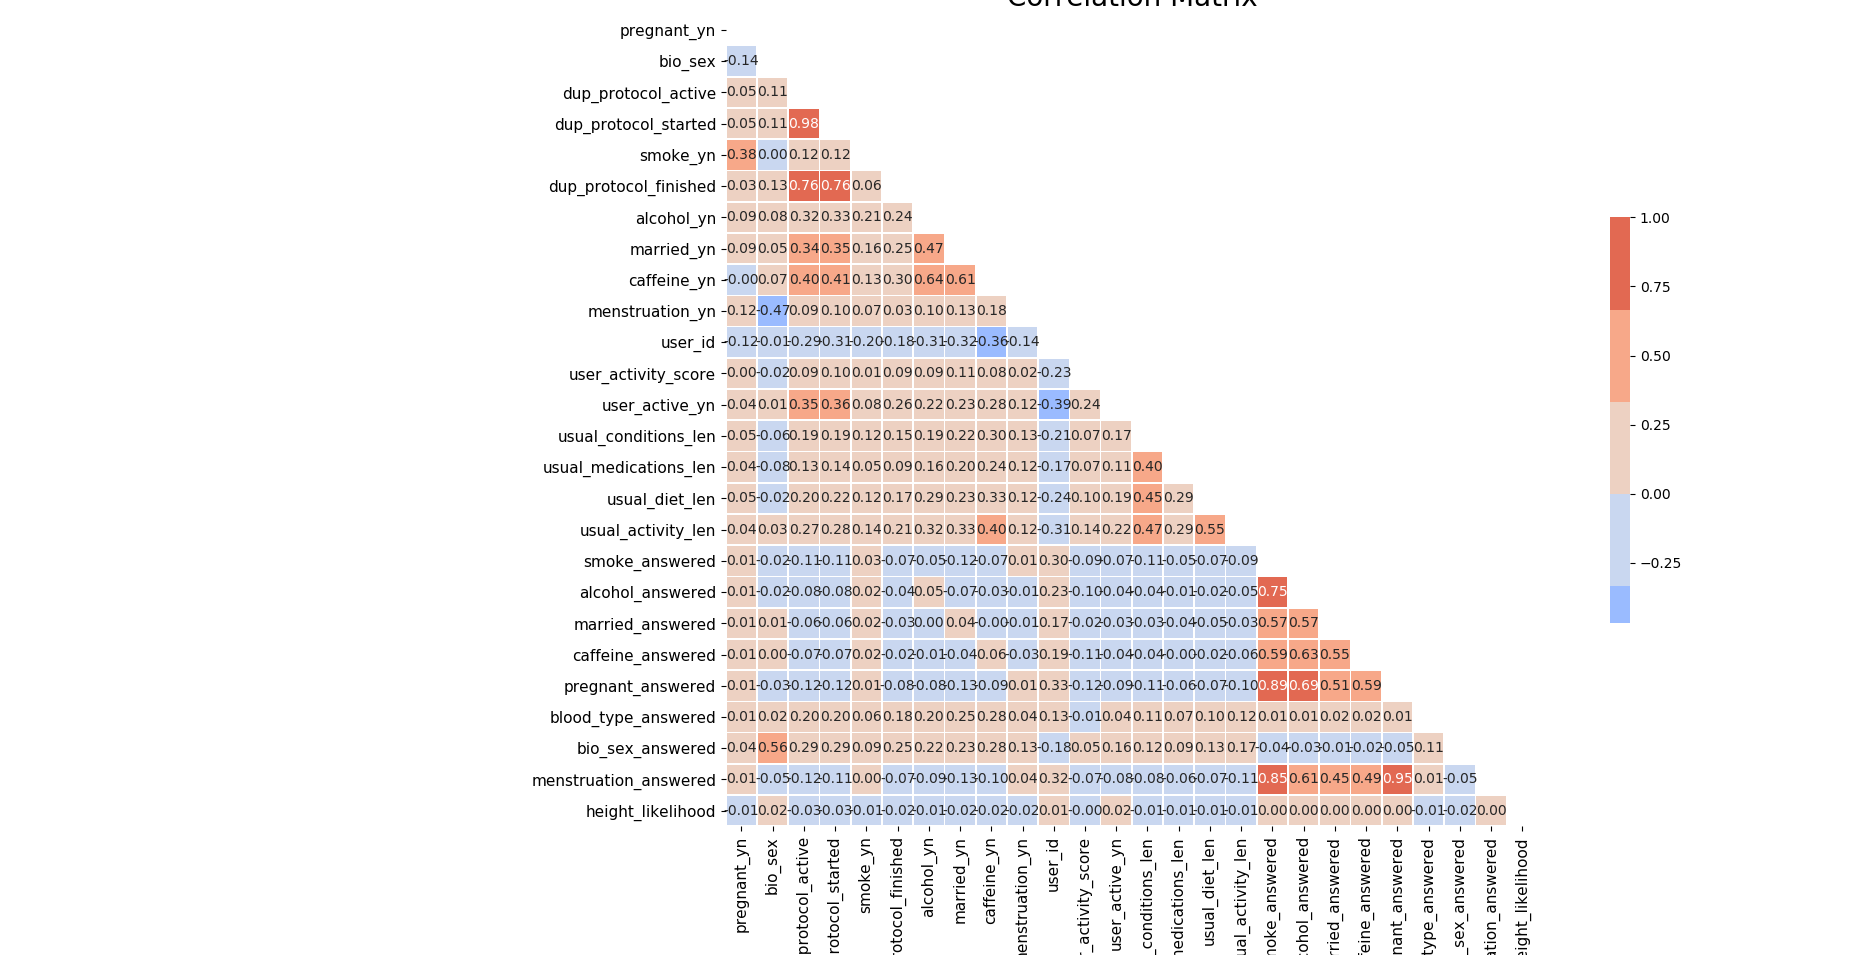
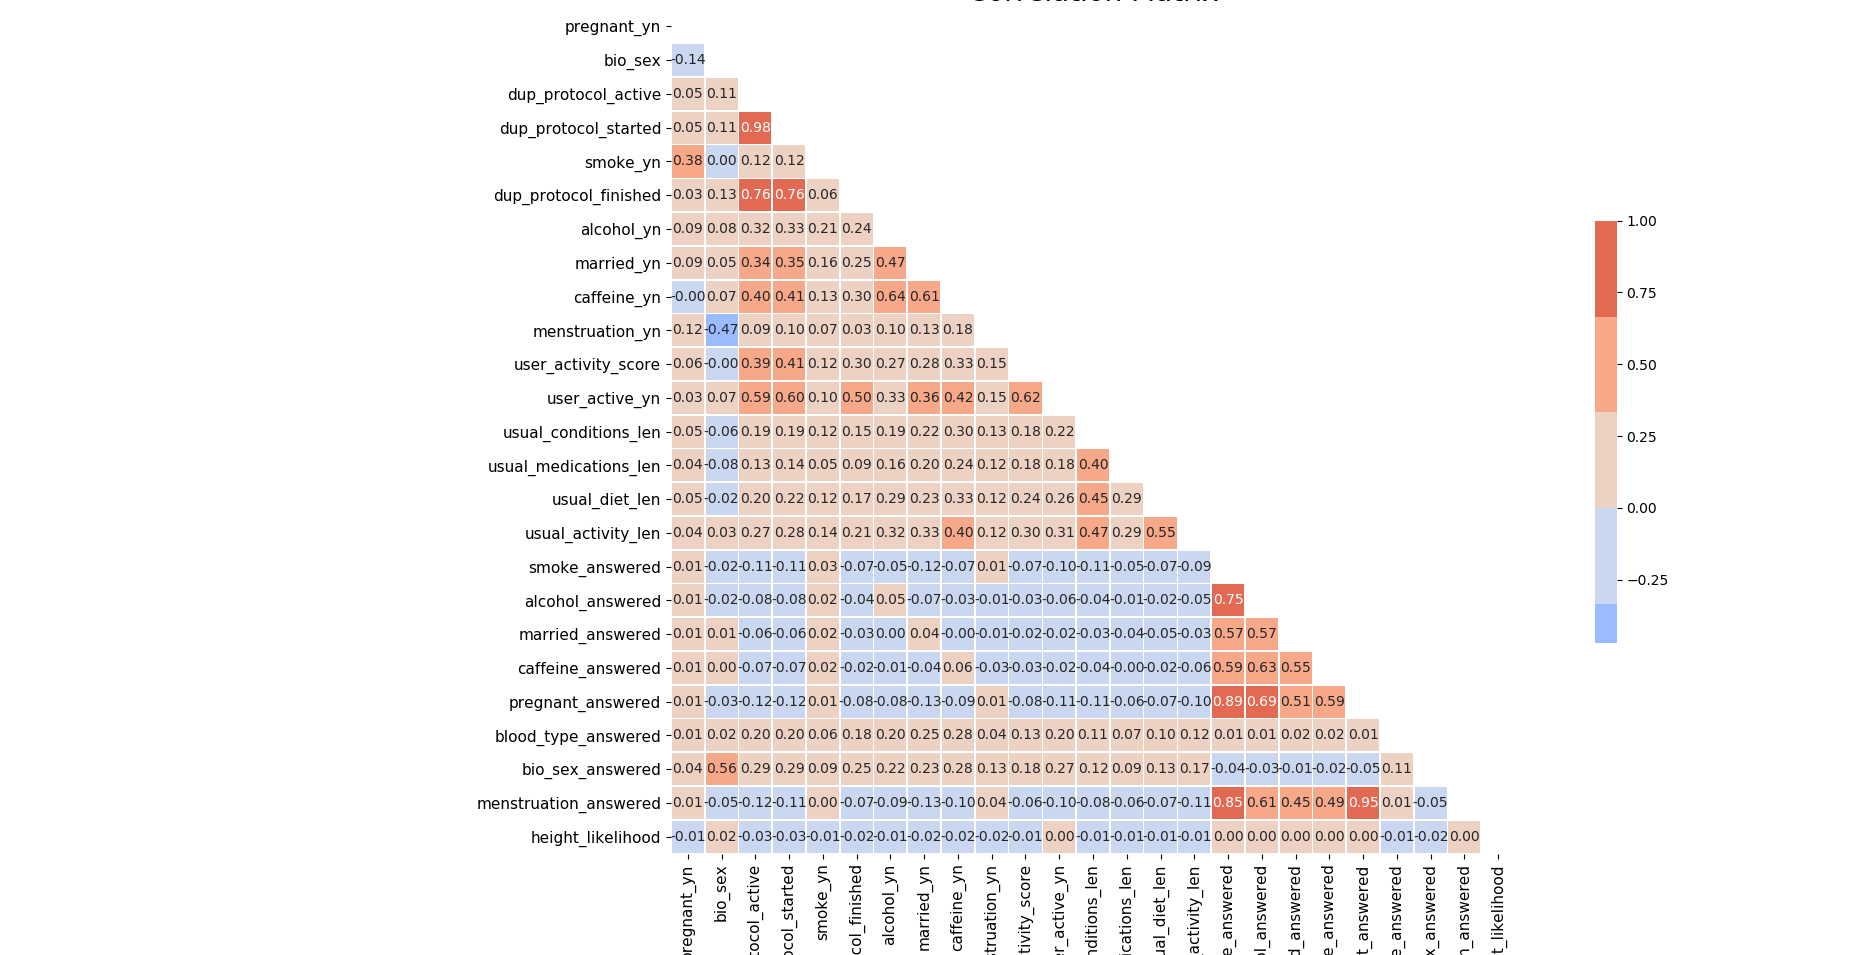
fix for backend data load to the db

diff --git a/db_basic_data_stats.py b/db_basic_data_stats.py
@@ -6,6 +6,10 @@ import matplotlib.pyplot as plt
 import numpy as np
 import scipy.stats as stats
 import seaborn as sns
+from sklearn.cross_validation import train_test_split
+from sklearn.linear_model import LassoLarsCV
+from sklearn.preprocessing import StandardScaler
+from pandas.plotting import scatter_matrix
 
 
 psql_user = os.environ.get('PSQL_USER')
@@ -28,7 +32,7 @@ def signup_rate_hist_monthly():
     """
     user_signup_df = query_to_dataframe(user_signup_hist_query)
     user_signup_df['signup_date'] = user_signup_df['signup_datetime'].dt.date
-    user_signup_df['user_id'] = user_signup_df.user_id.str.replace('x', '.').astype(float)
+    #user_signup_df['user_id'] = user_signup_df.user_id.str.replace('x', '.').astype(float)
     user_signup_df['signup_date'] =  pd.to_datetime(user_signup_df['signup_date'])
     print(user_signup_df.info())
     print(user_signup_df.head())
@@ -128,13 +132,13 @@ def csv_to_df(path):
     return pd.read_csv(path, "|")
 
 def clean_data_types(main_df):
-    main_df['user_id'] = main_df.user_id.str.replace('x', '.').astype(float)
+#    main_df['user_id'] = main_df.user_id.str.replace('x', '.').astype(float)
     main_df["entry_chosen_datetime"] = main_df['entry_chosen_datetime'].dt.date
     main_df["entry_chosen_datetime"] = pd.to_datetime(main_df['entry_chosen_datetime'])
-    main_df['user_bio_sex'].replace(('Male','Female'), (1,0), inplace=True)
-    main_df['entry_bio_sex'].replace(('Male','Female'), (1,0), inplace=True)
-    main_df['user_pregnant_yn'].fillna(-1, inplace=True)
-    main_df['entry_pregnant_yn'].fillna(-1, inplace=True)
+    # main_df['user_bio_sex'].replace(('Male','Female'), (1,0), inplace=True)
+    # main_df['entry_bio_sex'].replace(('Male','Female'), (1,0), inplace=True)
+    # main_df['user_pregnant_yn'].fillna(-1, inplace=True)
+    # main_df['entry_pregnant_yn'].fillna(-1, inplace=True)
     return main_df
 
 def get_counts(main_df):
@@ -148,11 +152,13 @@ def get_counts(main_df):
     return counts_df[["user_id","data_points","entry_chosen_datetime_cnt","entry_id_cnt"]]
 
 def get_days_active(main_df):
-    active_days =  (main_df.groupby('user_id').max()['entry_created_date'])-main_df.groupby('user_id').max()['user_created_date']
-
+    active_days = main_df.groupby('user_id').max()['entry_created_date'] - np.minimum(main_df.groupby('user_id').min()['user_created_date'],main_df.groupby('user_id').min()['user_created_date'])
+    active_days = active_days.fillna(1)
+    active_days = active_days.dt.ceil('1D')
+    active_days = active_days.dt.days.astype(int)
     active_days = active_days.reset_index()
-    active_days = active_days[0].dt.ceil('1D')
-    active_days = active_days.fillna(0)
+    active_days = active_days.rename(columns={'index': 'user_id', 0: 'days_active'})
+    #defining 1 as lowest num of active days possible for math reasons
     return active_days
 
 def corr_heatmap_with_values(df):
@@ -181,26 +187,134 @@ def dec_vs_other_months(df):
     print(user_active_ttest)
     #Ttest_indResult(statistic=-12.497492110151295, pvalue=6.2818586376725302e-35)
 
+def lasso_attempt(data_clean):
+    predvar = data_clean.drop(['user_active_yn','user_activity_score'], axis=1)
+    target1 = data_clean['user_active_yn']
+    predvar2 = data_clean.loc[data_clean['user_active_yn']==1]
+    target2 = predvar2['user_activity_score']
+    predvar2 = predvar2.drop(['user_active_yn','user_activity_score'], axis=1)
+    scaler = StandardScaler()
+    scaler.fit(predvar)
+    predictors=scaler.transform(predvar)
+    scaler.fit(predvar2)
+    predictors2 = scaler.transform(predvar2)
+    #target1
+    pred_train, pred_test, tar_train, tar_test = train_test_split(predictors, target1,test_size=.3)
+    model=LassoLarsCV(cv=10, precompute=False).fit(pred_train,tar_train)
+    m_log_alphas = -np.log10(model.alphas_)
+    ax = plt.gca()
+    plt.plot(m_log_alphas, model.coef_path_.T)
+    plt.axvline(-np.log10(model.alpha_), color='k',label='alpha CV')
+    plt.ylabel('Regression Coefficients')
+    plt.legend()
+    plt.xlabel('-log(alpha)')
+    plt.title('Regression Coefficients Progression for Lasso Paths\nUser Active YN')
+    plt.show()
+    # print variable names and regression coefficients
+    var_imp = pd.DataFrame(data = {'predictors':list(predvar.columns.values),'coefficients':model.coef_})
+    var_imp['sort'] = var_imp.coefficients.abs()
+    print("User Active YN Coefficients")
+    print(var_imp.sort_values(by='sort', ascending=False))
 
+    #target2
+    pred_train, pred_test, tar_train, tar_test = train_test_split(predictors2, target2,
+    test_size=.3)
+    model=LassoLarsCV(cv=10, precompute=False).fit(pred_train,tar_train)
+    m_log_alphas = -np.log10(model.alphas_)
+    ax = plt.gca()
+    plt.plot(m_log_alphas, model.coef_path_.T)
+    plt.axvline(-np.log10(model.alpha_), color='k',label='alpha CV')
+    plt.ylabel('Regression Coefficients')
+    plt.legend()
+    plt.xlabel('-log(alpha)')
+    plt.title('Regression Coefficients Progression for Lasso Paths\nUser Activity Score')
+    plt.show()
+    # print variable names and regression coefficients
+    var_imp = pd.DataFrame(data = {'predictors':list(predvar.columns.values),'coefficients':model.coef_})
+    var_imp['sort'] = var_imp.coefficients.abs()
+    print("User Activity Score Coefficients")
+    print(var_imp.sort_values(by='sort', ascending=False))
+    '''    User Active YN Coefficients
+        coefficients             predictors      sort
+    3       0.197839   dup_protocol_started  0.197839
+    8       0.049685            caffeine_yn  0.049685
+    5       0.046396  dup_protocol_finished  0.046396
+    13      0.027296     usual_activity_len  0.027296
+    7       0.027225             married_yn  0.027225
+    9       0.019618        menstruation_yn  0.019618
+    20      0.016957       bio_sex_answered  0.016957
+    11      0.014370  usual_medications_len  0.014370
+    12      0.013858         usual_diet_len  0.013858
+    19      0.009921    blood_type_answered  0.009921
+    6       0.007458             alcohol_yn  0.007458
+    18     -0.003364      pregnant_answered  0.003364
+    14     -0.002166         smoke_answered  0.002166
+    16      0.000000       married_answered  0.000000
+    21      0.000000  menstruation_answered  0.000000
+    17      0.000000      caffeine_answered  0.000000
+    0       0.000000            pregnant_yn  0.000000
+    15      0.000000       alcohol_answered  0.000000
+    1       0.000000                bio_sex  0.000000
+    10      0.000000   usual_conditions_len  0.000000
+    4       0.000000               smoke_yn  0.000000
+    2       0.000000    dup_protocol_active  0.000000
+    22      0.000000      height_likelihood  0.000000
+    User Activity Score Coefficients
+        coefficients             predictors      sort
+    13      0.492935     usual_activity_len  0.492935
+    3       0.356365   dup_protocol_started  0.356365
+    4       0.256695               smoke_yn  0.256695
+    8       0.198926            caffeine_yn  0.198926
+    9       0.174969        menstruation_yn  0.174969
+    5      -0.166565  dup_protocol_finished  0.166565
+    11      0.077961  usual_medications_len  0.077961
+    1      -0.041830                bio_sex  0.041830
+    6       0.027837             alcohol_yn  0.027837
+    16      0.000000       married_answered  0.000000
+    21      0.000000  menstruation_answered  0.000000
+    20      0.000000       bio_sex_answered  0.000000
+    19      0.000000    blood_type_answered  0.000000
+    18      0.000000      pregnant_answered  0.000000
+    17      0.000000      caffeine_answered  0.000000
+    0       0.000000            pregnant_yn  0.000000
+    15      0.000000       alcohol_answered  0.000000
+    14      0.000000         smoke_answered  0.000000
+    12      0.000000         usual_diet_len  0.000000
+    10      0.000000   usual_conditions_len  0.000000
+    7       0.000000             married_yn  0.000000
+    2       0.000000    dup_protocol_active  0.000000
+    22      0.000000      height_likelihood  0.000000'''
+
+
+def add_months(user_profile_df):
+    user_profile_df['month_created'] = user_profile_df['created_date'].dt.month.astype(int)
+    user_profile_df = pd.get_dummies(user_profile_df, columns=['month_created'])
+    for num in range(1,13):
+        if f'month_created_{num}' in user_profile_df.columns:
+            continue
+        else:
+            user_profile_df[f'month_created_{num}'] = [0]*len(user_profile_df.index)
+    return user_profile_df
 
 #df_to_csv(create_main_df(), "main_df.csv")
 #main_df = csv_to_df("main_df.csv")
-main_df = create_smaller_main_df()
+#main_df = create_smaller_main_df()
 #print(main_df.info())
-main_df = clean_data_types(main_df)
+main_df = clean_data_types(create_smaller_main_df())
 counts_df = get_counts(main_df)
-counts_df['days_active'] = get_days_active(main_df)
-counts_without_zero = counts_df.loc[counts_df['entry_chosen_datetime_cnt']>0]
-counts_without_zero = counts_without_zero.loc[counts_without_zero['entry_id_cnt']>0]
-counts_without_zero = counts_without_zero.loc[counts_without_zero['days_active'].dt.days>0]
+counts_df = counts_df.merge(get_days_active(main_df), how='left',on = 'user_id')
+counts_df['user_activity_cnt'] = counts_df['entry_chosen_datetime_cnt']+counts_df['entry_id_cnt']
+counts_df['user_activity_score'] = counts_df['user_activity_cnt'].astype(float)/counts_df['days_active'].astype(float)
+
+# counts_without_zero = counts_df.loc[counts_df['entry_chosen_datetime_cnt']>0]
+# counts_without_zero = counts_without_zero.loc[counts_without_zero['entry_id_cnt']>0]
+# counts_without_zero = counts_without_zero.loc[counts_without_zero['days_active'].dt.days>0]
 
 user_profile_df = query_to_dataframe('SELECT * FROM user_table;')
 user_profile_df.rename(index=str, columns={'_id': "user_id"}, inplace=True)
-user_profile_df['user_id'] = user_profile_df.user_id.str.replace('x', '.').astype(float)
+#user_profile_df['user_id'] = user_profile_df.user_id.str.replace('x', '.').astype(float)
 
-counts_df['user_activity_score'] = counts_df['days_active'].dt.days.astype(int)
-counts_df['user_activity_score'] = counts_df['user_activity_score']*counts_df['entry_chosen_datetime_cnt']
-counts_df['user_activity_score'] = counts_df['user_activity_score']*counts_df['entry_id_cnt']
+
 user_profile_df = user_profile_df.merge(counts_df[['user_id','user_activity_score']],how='left',on = 'user_id')
 user_profile_df['user_active_yn'] =  np.where(user_profile_df['user_activity_score']==0,0,1)
 
@@ -269,15 +383,8 @@ user_profile_df['menstruation_answered'] = user_profile_df['menstruation_answere
 user_profile_df['menstruation_answered'] = np.where(user_profile_df['menstruation_answered']==-1, 0, 1)
 user_profile_df['menstruation_yn'] = user_profile_df['menstruation_yn'].fillna(0)
 
-user_profile_df['month_created'] = user_profile_df['created_date'].dt.month.astype(int)
-user_profile_df = pd.get_dummies(user_profile_df, columns=['month_created'])
+'''user_profile_df=add_months(user_profile_df)'''
 user_profile_df.drop('created_date', axis=1, inplace=True)
-
-for num in range(1,13):
-    if f'month_created_{num}' in user_profile_df.columns:
-        continue
-    else:
-        user_profile_df[f'month_created_{num}'] = [0]*len(user_profile_df.index)
 
 #so as to not have to pull sensus data, useing http://www.usablestats.com/lessons/normal for average heights and distributions
 #adult male heights are on average 70 inches  (5'10) with a standard deviation of 4 inches. Adult women are on average a bit shorter and less variable in height with a mean height of 65  inches (5'5) and standard deviation of 3.5 inches
@@ -296,7 +403,69 @@ user_profile_df.drop('height_cm', axis=1, inplace=True)
 
 corr_heatmap_with_values(user_profile_df)
 
+lasso_attempt(user_profile_df.drop('user_id',axis=1))
 
+
+sns.set(style="ticks")
+for column in user_profile_df.columns:
+    if column not in ['user_activity_score','user_active_yn']:
+        sns.pairplot(user_profile_df[['user_active_yn', column, 'user_activity_score']], hue="user_active_yn")
+        plt.show()
+
+# scatter_matrix(user_profile_df.drop(['dup_protocol_started','caffeine_yn', 'usual_diet_len', 'alcohol_yn', 'height_likelihood', 'menstruation_yn','married_yn', 'usual_activity_len', 'pregnant_answered', 'bio_sex_answered', 'blood_type_answered', 'usual_conditions_len'],axis=1), alpha=0.2, figsize=(6, 6), diagonal='kde')
+# n = len(user_profile_df.drop(['dup_protocol_started','caffeine_yn', 'usual_diet_len', 'alcohol_yn', 'height_likelihood', 'menstruation_yn','married_yn', 'usual_activity_len', 'pregnant_answered', 'bio_sex_answered', 'blood_type_answered', 'usual_conditions_len'],axis=1).columns)
+# for x in range(n):
+#     for y in range(n):
+#         # to get the axis of subplots
+#         ax = axs[x, y]
+#         # to make x axis name vertical
+#         ax.xaxis.label.set_rotation(90)
+#         # to make y axis name horizontal
+#         ax.yaxis.label.set_rotation(0)
+#         # to make sure y axis names are outside the plot area
+#         ax.yaxis.labelpad = 50
+# plt.show()
+# scatter_matrix(user_profile_df.drop(['married_answered','menstruation_answered', 'caffeine_answered', 'pregnant_yn', 'alcohol_answered', 'smoke_answered','bio_sex', 'dup_protocol_finished', 'smoke_yn', 'dup_protocol_active', 'usual_medications_len'],axis=1), alpha=0.2, figsize=(6, 6), diagonal='kde')
+# n = len(user_profile_df.drop(['married_answered','menstruation_answered', 'caffeine_answered', 'pregnant_yn', 'alcohol_answered', 'smoke_answered','bio_sex', 'dup_protocol_finished', 'smoke_yn', 'dup_protocol_active', 'usual_medications_len'],axis=1).columns)
+# for x in range(n):
+#     for y in range(n):
+#         # to get the axis of subplots
+#         ax = axs[x, y]
+#         # to make x axis name vertical
+#         ax.xaxis.label.set_rotation(90)
+#         # to make y axis name horizontal
+#         ax.yaxis.label.set_rotation(0)
+#         # to make sure y axis names are outside the plot area
+#         ax.yaxis.labelpad = 50
+# plt.show()
+
+
+'''with months removed
+User Active YN Coefficients
+    coefficients             predictors      sort
+3       0.097547   dup_protocol_started  0.097547
+8       0.029384            caffeine_yn  0.029384
+12      0.024942         usual_diet_len  0.024942
+6       0.013645             alcohol_yn  0.013645
+22      0.013267      height_likelihood  0.013267
+9       0.011293        menstruation_yn  0.011293
+7       0.010622             married_yn  0.010622
+13      0.009749     usual_activity_len  0.009749
+18     -0.006906      pregnant_answered  0.006906
+20      0.004162       bio_sex_answered  0.004162
+19     -0.003268    blood_type_answered  0.003268
+10      0.001989   usual_conditions_len  0.001989
+16      0.000000       married_answered  0.000000
+21      0.000000  menstruation_answered  0.000000
+17      0.000000      caffeine_answered  0.000000
+0       0.000000            pregnant_yn  0.000000
+15      0.000000       alcohol_answered  0.000000
+14      0.000000         smoke_answered  0.000000
+1       0.000000                bio_sex  0.000000
+5       0.000000  dup_protocol_finished  0.000000
+4       0.000000               smoke_yn  0.000000
+2       0.000000    dup_protocol_active  0.000000
+11      0.000000  usual_medications_len  0.000000    '''
 
 # plt.hist(counts_df['entry_chosen_datetime_cnt'], color='cyan', label='unique_days_with_entries')
 # plt.hist(counts_df['entry_id_cnt'],alpha=0.7, color='pink', label='data_points_per_day')
